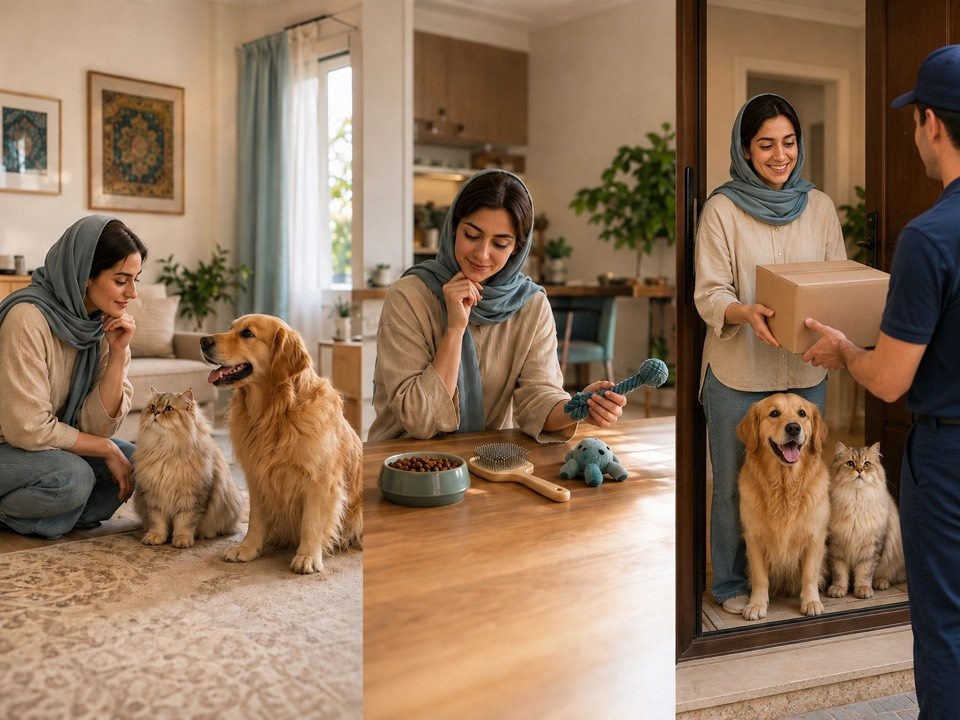
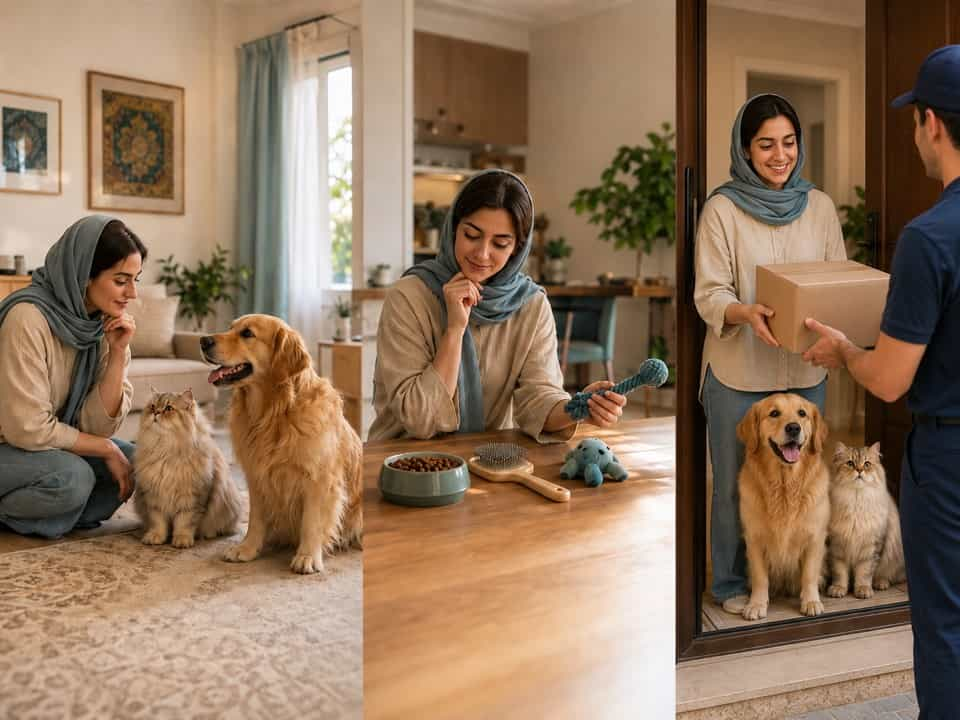
hotfix: better performace of hero image route

Changed region(s): [[0.5, 0.6111, 0.5312, 0.6417]]

diff --git a/src/app/(default)/_components/home/benefits/home-data.ts b/src/app/(default)/_components/home/benefits/home-data.ts
@@ -48,81 +48,6 @@ export const homeBenefits: readonly HomeBenefit[] = [
   },
 ] as const;
 
-export const petCategories: readonly PetCategory[] = [
-  {
-    title: 'گربهها',
-    description: 'غذای خشک، تشویقی و خاک',
-    image: '/images/home/category-cat.jpg',
-    imageAlt: 'گربه پرشین سفید روی بالشت مخملی',
-  },
-  {
-    title: 'سگها',
-    description: 'قلاده، اسباببازی و مکمل',
-    image: '/images/home/category-dog.jpg',
-    imageAlt: 'توله گلدن رتریور در فضای سبز',
-  },
-  {
-    title: 'پرندگان',
-    description: 'دان، قفس و ویتامین',
-    image: '/images/home/category-bird.jpg',
-    imageAlt: 'طوطی ماکائوی رنگارنگ روی استند چوبی',
-  },
-  {
-    title: 'جوندگان',
-    description: 'یونجه، پلت و بستر',
-    image: '/images/home/category-hamster.jpg',
-    imageAlt: 'همستر کوچک در حال خوردن دانه',
-  },
-] as const;
-
-export const featuredProducts: readonly FeaturedProduct[] = [
-  {
-    title: 'غذای خشک سگ پرشین',
-    description: 'مدل گورمت، مناسب سگهای بالغ',
-    image: '/images/home/product-dog-food.jpg',
-    imageAlt: 'بسته غذای خشک سگ پرشین پت هیون',
-    discount: '۲۰٪ تخفیف',
-    previousPrice: '۱٬۲۰۰٬۰۰۰',
-    currentPrice: '۹۶۰٬۰۰۰',
-  },
-  {
-    title: 'خاک گربه کربندار',
-    description: 'بسته ۱۰ لیتری با جذب بالا',
-    image: '/images/home/product-cat-litter.jpg',
-    imageAlt: 'بسته خاک گربه با طراحی روشن',
-    discount: '۱۵٪ تخفیف',
-    previousPrice: '۳۵۰٬۰۰۰',
-    currentPrice: '۲۹۷٬۵۰۰',
-  },
-  {
-    title: 'آبخوری هوشمند',
-    description: 'فیلتر چندلایه و پمپ کمصدا',
-    image: '/images/home/product-water-fountain.jpg',
-    imageAlt: 'آبخوری هوشمند سفید حیوانات خانگی',
-    discount: '۳۰٪ تخفیف',
-    previousPrice: '۲٬۵۰۰٬۰۰۰',
-    currentPrice: '۱٬۷۵۰٬۰۰۰',
-  },
-  {
-    title: 'پک اسباببازی دندانی',
-    description: 'مقاوم و مناسب تولهسگها',
-    image: '/images/home/product-rope-toys.jpg',
-    imageAlt: 'مجموعه اسباببازی طنابی رنگی سگ',
-    discount: '۱۰٪ تخفیف',
-    previousPrice: '۴۵۰٬۰۰۰',
-    currentPrice: '۴۰۵٬۰۰۰',
-  },
-  {
-    title: 'کنسرو گربه مدل مرغ',
-    description: 'قوطی ۸۵ گرمی با گوشت واقعی',
-    image: '/images/home/product-wet-food.jpg',
-    imageAlt: 'قوطی غذای تر گربه با طعم مرغ',
-    discount: '۲۵٪ تخفیف',
-    previousPrice: '۱۲۰٬۰۰۰',
-    currentPrice: '۹۰٬۰۰۰',
-  },
-] as const;
-
 export const benefitIconStyles = {
   primary: 'tw:bg-primary-muted tw:text-primary-muted-foreground',
   secondary: 'tw:bg-secondary-muted tw:text-secondary-muted-foreground',

diff --git a/src/app/(default)/_components/home/hero/hero-section.tsx b/src/app/(default)/_components/home/hero/hero-section.tsx
@@ -9,13 +9,11 @@ import { routePaths } from '@/configs/route.path';
 import { cn } from '@/lib/utils';
 
 import { RevealItem } from '../shared/motion-primitives';
-import { ShaderBackground } from './shader-background';
 
 export function HeroSection() {
   return (
     <section className="tw:relative tw:isolate tw:overflow-hidden tw:py-8 tw:sm:py-12 tw:lg:py-16">
       <div className="tw:absolute tw:inset-0 tw:-z-20 tw:bg-linear-to-bl tw:from-primary-muted/70 tw:via-background tw:to-secondary-muted/65" />
-      <ShaderBackground />
       <div className="tw:absolute tw:inset-0 tw:-z-10 tw:bg-background/35 tw:supports-backdrop-filter:backdrop-blur-[2px]" />
 
       <FadeIn
@@ -74,12 +72,12 @@ export function HeroSection() {
           <div className="tw:absolute tw:-inset-3 tw:rounded-[2.25rem] tw:bg-primary/15 tw:blur-2xl tw:sm:-inset-5" />
           <div className="tw:relative tw:aspect-16/10 tw:overflow-hidden tw:rounded-4xl tw:border tw:border-background/70 tw:bg-card tw:shadow-2xl tw:shadow-foreground/15">
             <Image
-              src="/images/home/hero-pets.jpeg"
+              src="/images/home/hero-pets.jpg"
               alt="سگ گلدن رتریور و گربه پرشین در خانهای روشن، کنار نمای موبایل پتشاپ"
               fill
               preload
-              loading="eager"
               fetchPriority="high"
+              quality={50}
               sizes="(min-width: 1024px) 58vw, 100vw"
               className="tw:object-cover tw:object-center"
             />

diff --git a/src/app/(default)/products/_components/hero/product-hero-section.tsx b/src/app/(default)/products/_components/hero/product-hero-section.tsx
@@ -80,7 +80,7 @@ export function ProductHeroRenderer() {
           <div className="tw:absolute tw:-inset-3 tw:rounded-[2.75rem] tw:border tw:border-primary/15 tw:bg-primary/5 tw:rotate-2" />
           <div className="tw:relative tw:aspect-[4/3] tw:overflow-hidden tw:rounded-[2.5rem] tw:border tw:border-border/60 tw:bg-card tw:shadow-2xl tw:shadow-primary/15">
             <Image
-              src="/images/home/hero-pets.jpeg"
+              src="/images/home/hero-pets.jpg"
               alt="گلدن رتریور و گربه پرشین در خانه روشن"
               fill
               preload

diff --git a/src/app/(default)/about-us/_components/about-us-hero.tsx b/src/app/(default)/about-us/_components/about-us-hero.tsx
@@ -53,7 +53,7 @@ export function AboutUsHero() {
             />
             <figure className="tw:absolute tw:inset-x-0 tw:top-0 tw:bottom-[12%] tw:overflow-hidden tw:rounded-[48%] tw:border tw:border-background tw:bg-muted tw:shadow-xl tw:shadow-foreground/10">
               <Image
-                src="/images/home/hero-pets.jpeg"
+                src="/images/home/hero-pets.jpg"
                 alt="سگ گلدن رتریور و گربه پرشین در خانهای روشن"
                 fill
                 priority

diff --git a/src/app/(default)/products/page.tsx b/src/app/(default)/products/page.tsx
@@ -14,13 +14,13 @@ export const metadata: Metadata = {
 
 export default function ProductLandingPage() {
   return (
-    <div className="tw:overflow-clip">
+    <main className="tw:overflow-clip">
       <ProductHeroSection />
       <ProductAssuranceSection />
       <ProductCategoriesSection />
       <PopularBrandsSection />
       <FeaturedProductsSection />
       <CareGuideSection />
-    </div>
+    </main>
   );
 }

diff --git a/src/app/(default)/pets/landing/_components/hero/pet-hero-section.tsx b/src/app/(default)/pets/landing/_components/hero/pet-hero-section.tsx
@@ -14,7 +14,7 @@ export function PetHeroSection() {
     >
       <div className="tw:group/hero tw:relative tw:h-132.5 tw:overflow-hidden tw:rounded-3xl tw:shadow-lg tw:md:h-150">
         <Image
-          src="/images/home/hero-pets.jpeg"
+          src="/images/home/hero-pets.jpg"
           alt="سگ گلدن رتریور و گربه پرشین در خانهای روشن"
           fill
           preload
